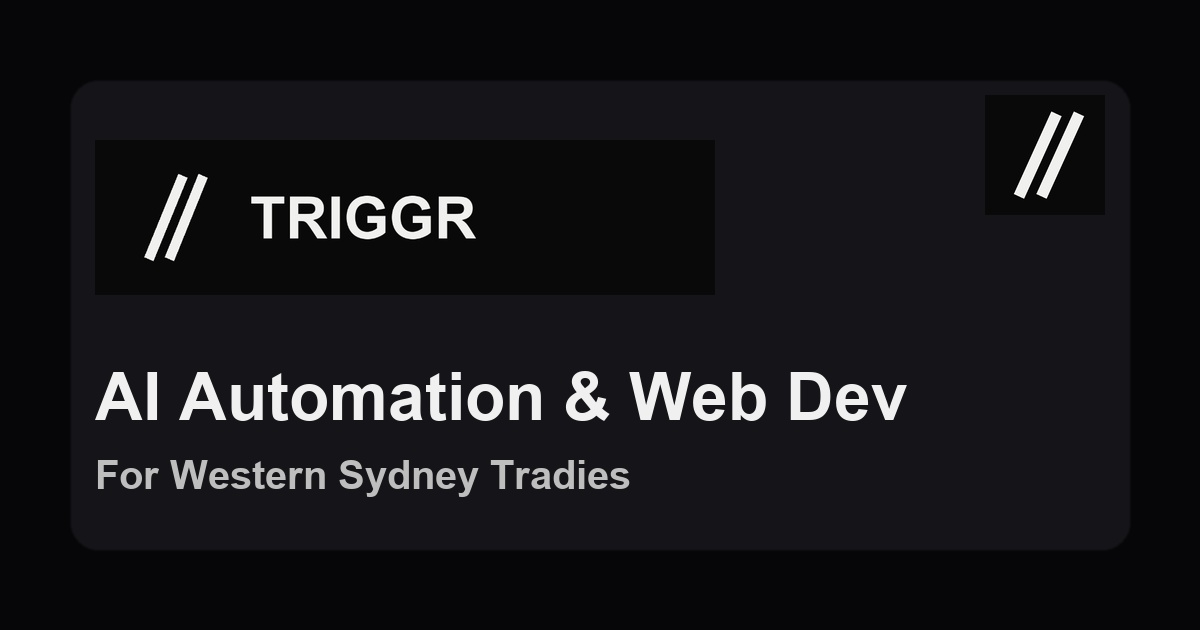
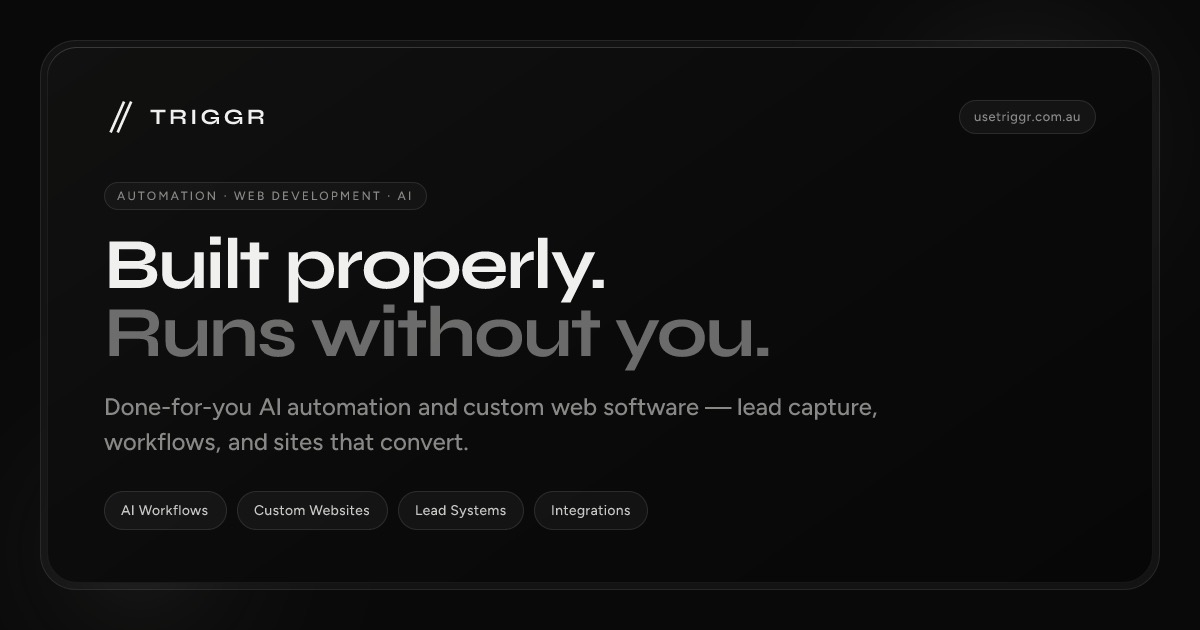
feat(landing): redesign Open Graph preview and broaden metadata
Add dynamic OG image generation with updated headline and copy, refresh static fallback, and broaden site description for link previews.

diff --git a/landing-page/src/app/opengraph-image.tsx b/landing-page/src/app/opengraph-image.tsx
@@ -1,0 +1,219 @@
+import { ImageResponse } from 'next/og';
+import { loadGoogleFont } from '@/lib/og/fonts';
+
+export const runtime = 'edge';
+export const alt = 'Triggr — AI automation and custom web development';
+export const size = { width: 1200, height: 630 };
+export const contentType = 'image/png';
+
+function LogoSlashes({ size = 28, color = '#F0F0EE' }: { size?: number; color?: string }) {
+  return (
+    <svg width={size} height={size} viewBox="0 0 36 36" fill="none">
+      <line x1="22" y1="2" x2="8" y2="34" stroke={color} strokeWidth="3" strokeLinecap="square" />
+      <line x1="30" y1="2" x2="16" y2="34" stroke={color} strokeWidth="3" strokeLinecap="square" />
+    </svg>
+  );
+}
+
+export default async function OgImage() {
+  const [syneBold, figtree] = await Promise.all([
+    loadGoogleFont('Syne', 700),
+    loadGoogleFont('Figtree', 500),
+  ]);
+
+  return new ImageResponse(
+    (
+      <div
+        style={{
+          width: '100%',
+          height: '100%',
+          display: 'flex',
+          background: '#090909',
+          position: 'relative',
+          overflow: 'hidden',
+        }}
+      >
+        {/* Ambient mesh */}
+        <div
+          style={{
+            position: 'absolute',
+            top: -120,
+            right: -80,
+            width: 520,
+            height: 520,
+            borderRadius: '50%',
+            background: 'radial-gradient(circle, rgba(240,240,238,0.09) 0%, transparent 68%)',
+          }}
+        />
+        <div
+          style={{
+            position: 'absolute',
+            bottom: -160,
+            left: -100,
+            width: 480,
+            height: 480,
+            borderRadius: '50%',
+            background: 'radial-gradient(circle, rgba(136,136,132,0.12) 0%, transparent 70%)',
+          }}
+        />
+
+        {/* Double-bezel frame */}
+        <div
+          style={{
+            display: 'flex',
+            flex: 1,
+            margin: 40,
+            padding: 6,
+            borderRadius: 36,
+            background: 'rgba(255,255,255,0.04)',
+            border: '1px solid rgba(255,255,255,0.08)',
+          }}
+        >
+          <div
+            style={{
+              display: 'flex',
+              flexDirection: 'column',
+              flex: 1,
+              borderRadius: 30,
+              background: 'linear-gradient(145deg, #111110 0%, #0a0a0a 55%, #070707 100%)',
+              border: '1px solid rgba(255,255,255,0.06)',
+              boxShadow: 'inset 0 1px 0 rgba(255,255,255,0.12)',
+              padding: '52px 56px',
+              position: 'relative',
+            }}
+          >
+            {/* Top bar */}
+            <div
+              style={{
+                display: 'flex',
+                alignItems: 'center',
+                justifyContent: 'space-between',
+                marginBottom: 48,
+              }}
+            >
+              <div style={{ display: 'flex', alignItems: 'center', gap: 14 }}>
+                <LogoSlashes size={32} />
+                <span
+                  style={{
+                    fontFamily: 'Syne',
+                    fontSize: 22,
+                    fontWeight: 700,
+                    letterSpacing: '0.14em',
+                    color: '#F0F0EE',
+                  }}
+                >
+                  TRIGGR
+                </span>
+              </div>
+              <div
+                style={{
+                  display: 'flex',
+                  alignItems: 'center',
+                  gap: 8,
+                  padding: '8px 14px',
+                  borderRadius: 999,
+                  border: '1px solid rgba(255,255,255,0.1)',
+                  background: 'rgba(255,255,255,0.04)',
+                }}
+              >
+                <span
+                  style={{
+                    fontFamily: 'Figtree',
+                    fontSize: 13,
+                    color: '#888884',
+                    letterSpacing: '0.04em',
+                  }}
+                >
+                  usetriggr.com.au
+                </span>
+              </div>
+            </div>
+
+            {/* Eyebrow */}
+            <div
+              style={{
+                display: 'flex',
+                marginBottom: 20,
+              }}
+            >
+              <span
+                style={{
+                  fontFamily: 'Figtree',
+                  fontSize: 12,
+                  fontWeight: 500,
+                  letterSpacing: '0.18em',
+                  textTransform: 'uppercase',
+                  color: '#888884',
+                  padding: '6px 12px',
+                  borderRadius: 999,
+                  border: '1px solid rgba(255,255,255,0.1)',
+                  background: 'rgba(255,255,255,0.03)',
+                }}
+              >
+                Automation · Web Development · AI
+              </span>
+            </div>
+
+            {/* Headline */}
+            <div
+              style={{
+                display: 'flex',
+                flexDirection: 'column',
+                flex: 1,
+                justifyContent: 'center',
+              }}
+            >
+              <div
+                style={{
+                  fontFamily: 'Syne',
+                  fontSize: 72,
+                  fontWeight: 700,
+                  lineHeight: 0.95,
+                  letterSpacing: '-0.03em',
+                  color: '#F0F0EE',
+                  maxWidth: 900,
+                }}
+              >
+                Built for you.
+              </div>
+              <div
+                style={{
+                  fontFamily: 'Syne',
+                  fontSize: 72,
+                  fontWeight: 700,
+                  lineHeight: 0.95,
+                  letterSpacing: '-0.03em',
+                  color: 'rgba(240,240,238,0.42)',
+                  maxWidth: 900,
+                  marginTop: 4,
+                }}
+              >
+                Runs without you
+              </div>
+              <div
+                style={{
+                  fontFamily: 'Figtree',
+                  fontSize: 24,
+                  fontWeight: 500,
+                  lineHeight: 1.45,
+                  color: '#888884',
+                  maxWidth: 780,
+                  marginTop: 28,
+                }}
+              >
+                Done-for-you AI automation and custom web software — lead capture, workflows, and sites that convert.
+              </div>
+            </div>
+          </div>
+        </div>
+      </div>
+    ),
+    {
+      ...size,
+      fonts: [
+        { name: 'Syne', data: syneBold, weight: 700, style: 'normal' },
+        { name: 'Figtree', data: figtree, weight: 500, style: 'normal' },
+      ],
+    },
+  );
+}

diff --git a/landing-page/src/app/layout.tsx b/landing-page/src/app/layout.tsx
@@ -15,7 +15,7 @@ export const viewport: Viewport = {
 };
 
 export const metadata: Metadata = {
-  title: 'Triggr | AI Automation & Web Dev for Sydney Tradies',
+  title: 'Triggr | AI Automation & Custom Web Development',
   description: BUSINESS.description,
   metadataBase: new URL(SITE_URL),
   alternates: {
@@ -24,16 +24,14 @@ export const metadata: Metadata = {
   openGraph: {
     type: 'website',
     url: `${SITE_URL}/`,
-    title: 'Triggr | AI Automation & Web Dev for Sydney Tradies',
+    title: 'Triggr | AI Automation & Custom Web Development',
     description: BUSINESS.description,
-    images: [`${SITE_URL}/og-image.jpg`],
     siteName: BUSINESS.name,
   },
   twitter: {
     card: 'summary_large_image',
-    title: 'Triggr | AI Automation & Web Dev for Sydney Tradies',
+    title: 'Triggr | AI Automation & Custom Web Development',
     description: BUSINESS.description,
-    images: [`${SITE_URL}/og-image.jpg`],
   },
   icons: [{ rel: 'icon', url: '/favicon.svg', type: 'image/svg+xml' }],
 };

diff --git a/landing-page/src/lib/og/fonts.ts b/landing-page/src/lib/og/fonts.ts
@@ -1,0 +1,19 @@
+/** Load a Google Font buffer for next/og ImageResponse (TTF/OTF only — not WOFF2). */
+export async function loadGoogleFont(family: string, weight: number): Promise<ArrayBuffer> {
+  const css = await fetch(`https://fonts.googleapis.com/css2?family=${family}:wght@${weight}&display=swap`, {
+    headers: {
+      'User-Agent':
+        'Mozilla/5.0 (compatible; OGImageBot/1.0; +https://nextjs.org/docs/app/api-reference/file-conventions/metadata/opengraph-image)',
+    },
+  }).then((res) => res.text());
+
+  const sources = [...css.matchAll(/src: url\((.+?)\) format\('(opentype|truetype|woff2)'\)/g)];
+  const preferred =
+    sources.find(([, , format]) => format === 'truetype' || format === 'opentype') ?? sources[0];
+
+  if (!preferred?.[1]) {
+    throw new Error(`Failed to load font: ${family} ${weight}`);
+  }
+
+  return fetch(preferred[1]).then((res) => res.arrayBuffer());
+}

diff --git a/landing-page/src/lib/seo/entity.ts b/landing-page/src/lib/seo/entity.ts
@@ -6,7 +6,7 @@ export const BUSINESS = {
   abn: '66 456 224 219',
   email: 'hi@usetriggr.com.au',
   description:
-    'Done-for-you AI automation and custom web development for Sydney trade businesses. Stop losing jobs to slow response times. Fast setup, zero templates.',
+    'Done-for-you AI automation and custom web development. Lead capture, workflows, and websites built to convert — fast setup, zero templates, no agencies.',
   areaServed: 'Sydney',
   addressLocality: 'Sydney',
   addressRegion: 'NSW',
